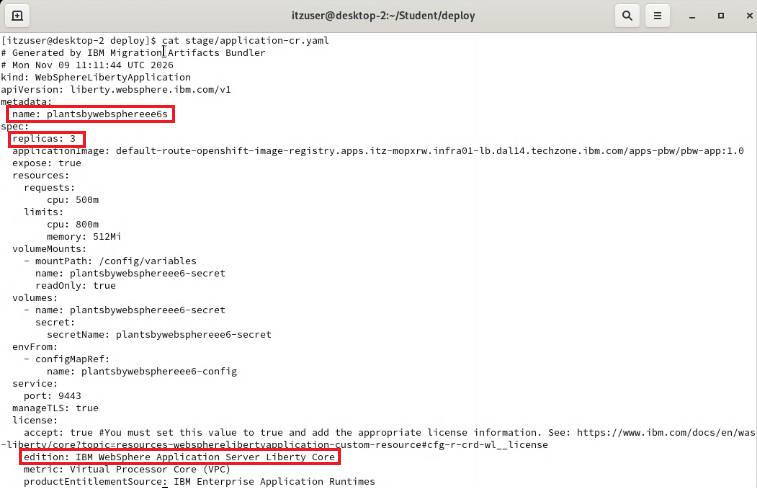
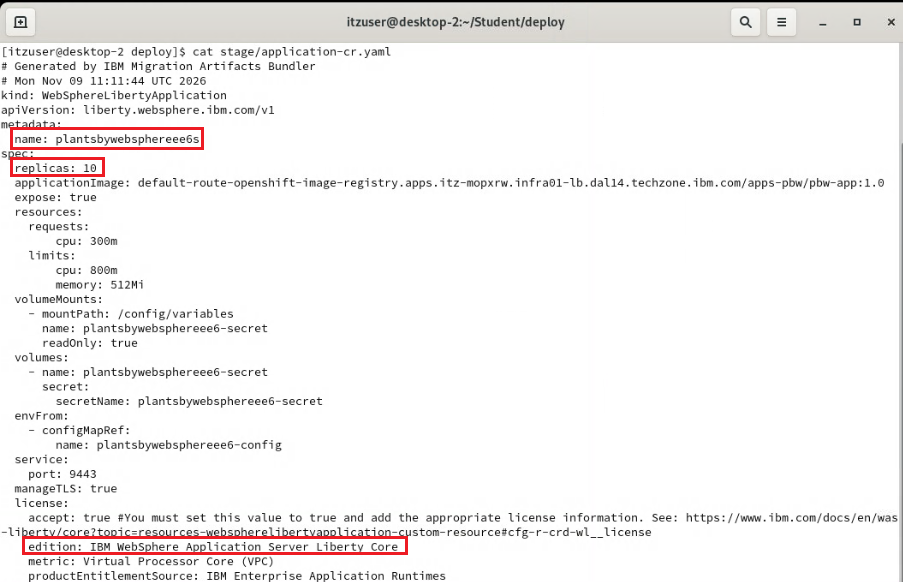
Add ILS pages

Changed region(s): [[0.0, 0.0, 1.0, 1.0]]

diff --git a/ILS_README.md b/ILS_README.md
@@ -673,6 +673,9 @@ The current deployment assumes that the application requires Liberty Base entitl
 
            sed -i "s|edition: IBM WebSphere Application Server|edition: IBM WebSphere Application Server Liberty Core|g" stage/application-cr.yaml
 
+        You can find more details about Liberty Core annotations at https://www.ibm.com/docs/en/was-liberty/core?topic=container-tracking-liberty-license-use-in-kubernetes
+
+
     4. Change the number of replica for stage from 5 to 10.
 
            cd ~/Student/deploy
@@ -708,12 +711,34 @@ The current deployment assumes that the application requires Liberty Base entitl
 
     ![ILS_Status-Page-5WLP-Replica.png](./images/media/ILS_Status-Page-5WLP-Replica.png)
     
+    As you can see, two products are now contributing to the overall number of entitlements.
+    - WebSphere Application Server Liberty Core with 10 pods of 0.8 cores each, so 8 cores in total.
+        - This results in a Liberty Core metric value of 8. 
+        - Due to the EAR ratio 11:1, this deployment requires 1 VPC of EAR.
+    - WebSphere Application Server (Base) with 5 pods of 0.8 cores each, so 4 cores in total.
+        - This results in a WAS metric value of 4. 
+        - Due to the EAR ratio 11:2, this deployment requires 1 VPC of EAR.
 
+## 4.4: Access the other statistics of the IBM License Service (ILS)
 
-    You can find more details about annotations at https://www.ibm.com/docs/en/was-liberty/core?topic=container-tracking-liberty-license-use-in-kubernetes
+1. Access the ILS Page for bundled products:
 
+       export LICENSING_URL=$(oc get route -n ibm-licensing -o jsonpath='{range .items[*]}{.spec.host}{"\n"}{end}')
 
+       export TOKEN=$(kubectl get secret ibm-licensing-token -n ibm-licensing -o jsonpath='{.data.token}' |base64 -d)
+
+       /usr/bin/xdg-open "https://${LICENSING_URL}/products?token=${TOKEN}"
     
+
+2. Access the ILS Page for bundled products:
+
+       export LICENSING_URL=$(oc get route -n ibm-licensing -o jsonpath='{range .items[*]}{.spec.host}{"\n"}{end}')
+
+       export TOKEN=$(kubectl get secret ibm-licensing-token -n ibm-licensing -o jsonpath='{.data.token}' |base64 -d)
+
+       /usr/bin/xdg-open "https://${LICENSING_URL}/bundled_products?token=${TOKEN}"
+    
+
 
 
 This completes the section about IBM License Service.
